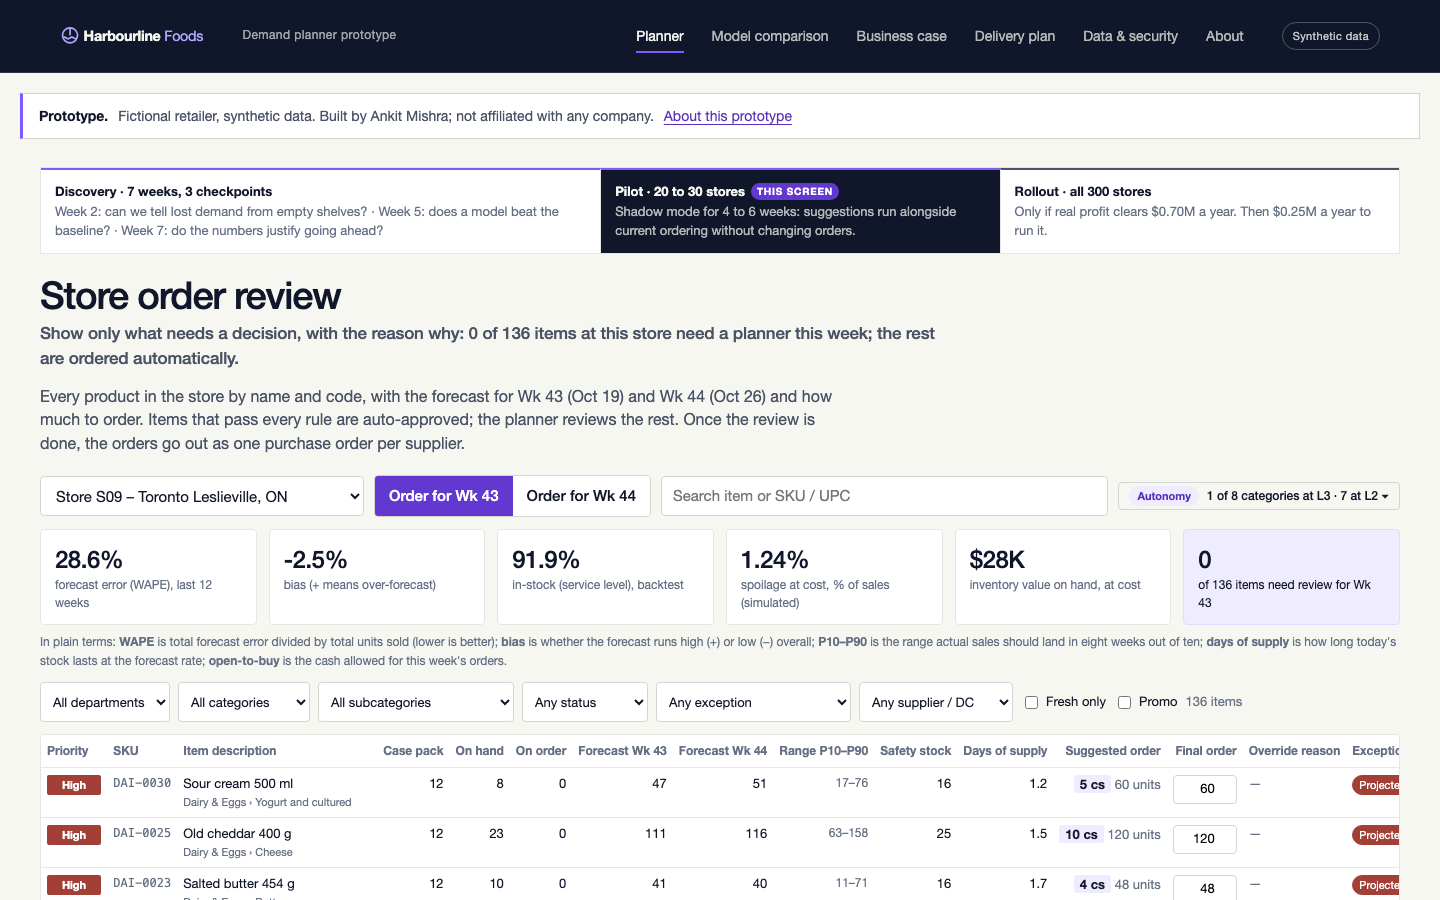
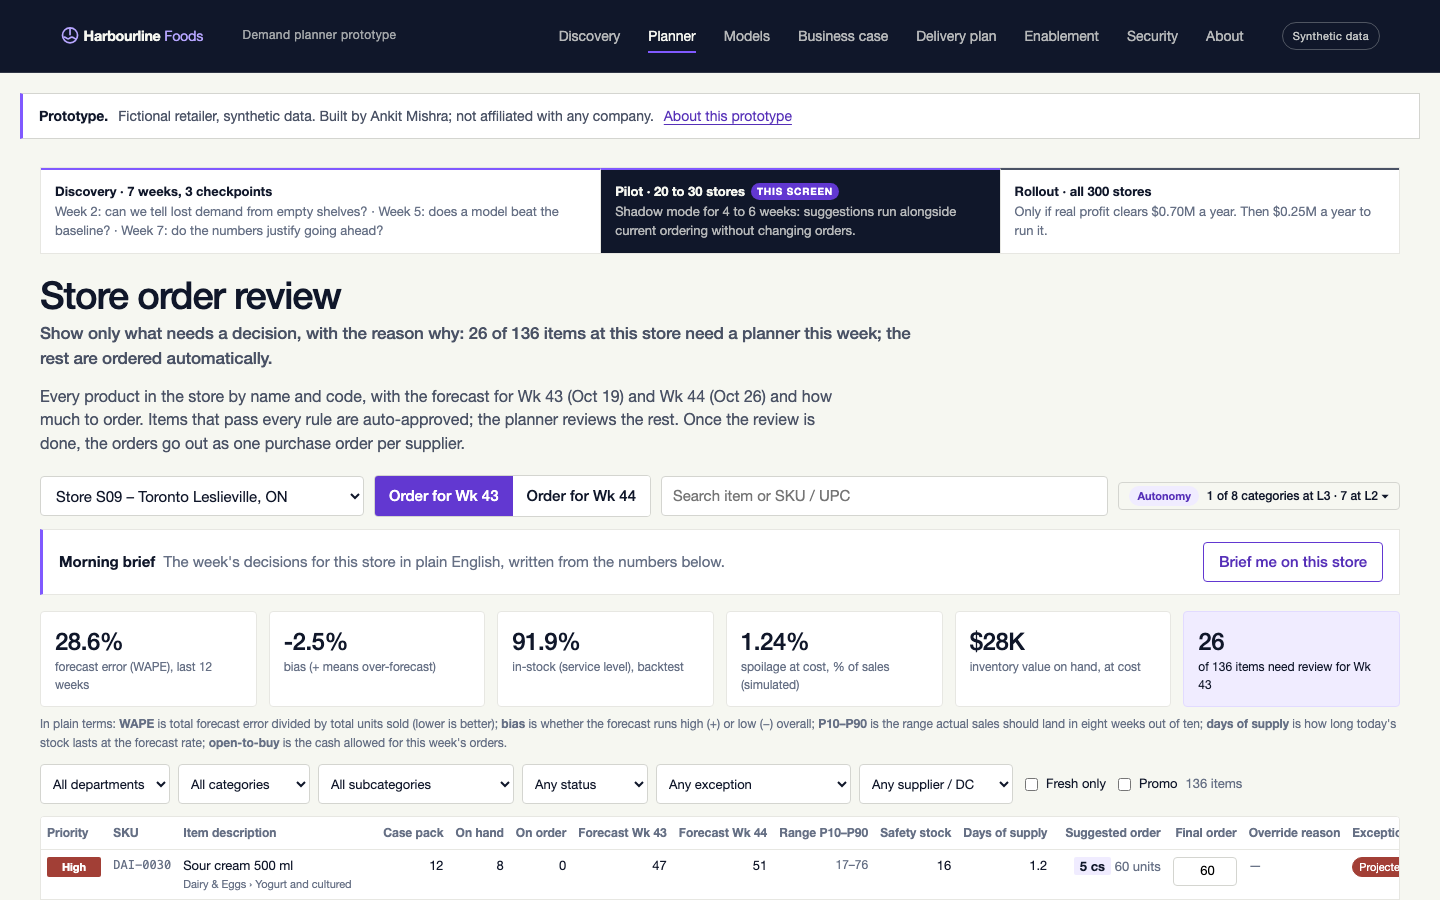
docs: screenshots for the new pages and the morning brief

diff --git a/README.md b/README.md
@@ -12,7 +12,7 @@ A better forecast tells each store how much to order. This repository is a worki
 |---|---|---|---|
 | ![Planner](docs/screenshots/planner-desktop.png) | ![Planner detail](docs/screenshots/planner-drawer-desktop.png) | ![Models](docs/screenshots/models-desktop.png) | ![Business case](docs/screenshots/business-case-desktop.png) |
 
-Phone width: [landing](docs/screenshots/landing-mobile.png) · [planner](docs/screenshots/planner-mobile.png) · [drawer](docs/screenshots/planner-drawer-mobile.png) · [models](docs/screenshots/models-mobile.png) · [business case](docs/screenshots/business-case-mobile.png) · [delivery plan](docs/screenshots/plan-mobile.png) · [security](docs/screenshots/security-mobile.png) · [about](docs/screenshots/about-mobile.png)
+Phone width: [landing](docs/screenshots/landing-mobile.png) · [discovery](docs/screenshots/discovery-mobile.png) · [planner](docs/screenshots/planner-mobile.png) · [brief](docs/screenshots/planner-brief-mobile.png) · [handoff](docs/screenshots/handoff-mobile.png) · [enablement](docs/screenshots/enablement-mobile.png) · [how it was built](docs/screenshots/how-it-was-built-mobile.png) · [drawer](docs/screenshots/planner-drawer-mobile.png) · [models](docs/screenshots/models-mobile.png) · [business case](docs/screenshots/business-case-mobile.png) · [delivery plan](docs/screenshots/plan-mobile.png) · [security](docs/screenshots/security-mobile.png) · [about](docs/screenshots/about-mobile.png)
 
 ## Contents
 
@@ -181,9 +181,9 @@ Priority: **High** when the stockout or spoilage rule fires (64 lines chain-wide
 
 ## After approval: sending orders and earning autonomy
 
-| Send sheet | Sent orders | Autonomy ladder |
-|---|---|---|
-| ![Send sheet](docs/screenshots/planner-send-sheet-desktop.png) | ![Sent orders](docs/screenshots/planner-sent-orders-desktop.png) | ![Autonomy](docs/screenshots/planner-autonomy-desktop.png) |
+| Morning brief | Send sheet | Sent orders | Autonomy ladder |
+|---|---|---|---|
+| ![Morning brief](docs/screenshots/planner-brief-desktop.png) | ![Send sheet](docs/screenshots/planner-send-sheet-desktop.png) | ![Sent orders](docs/screenshots/planner-sent-orders-desktop.png) | ![Autonomy](docs/screenshots/planner-autonomy-desktop.png) |
 
 - **Send orders.** Once every exception is decided, the planner reviews one purchase order per supplier or DC (lines, cases, cost at cost price, lead time, expected delivery, lines changed) and the week's spend against the store's open-to-buy (cost of expected sales × 1.10 in the prototype). Sending is simulated: each PO gets a number and moves Sent → Acknowledged (EDI 855, 20 s) → Shipped (EDI 856, 60 s) → Received (at the expected delivery date or after 120 s), with the stage derived from the send time so a reload keeps it. The Delivery plan page shows the real loop: planner app → ordering/ERP (API or EDI 850) → acknowledgement → ship notice → goods receipt → nightly feed back into the forecast.
 - **Autonomy ladder.** L1 planner approves every line (shadow mode) · L2 exceptions only (this screen) · L3 autonomous replenishment with veto. Thresholds are set per category class, because ambient items forecast better and stock out less than fresh: ambient WAPE ≤ 35%, bias ± 5%, overrides ≤ 5% of lines, stockouts ≤ 10% of lines; fresh WAPE ≤ 40%, stockouts ≤ 30%. A category moves up after four consecutive passing weeks and drops back after two consecutive misses; fresh categories are capped at L2 through the pilot. Household holds L3 on the backtest evidence; Frozen is on a passing streak; Pantry and Beverages have recent misses.
